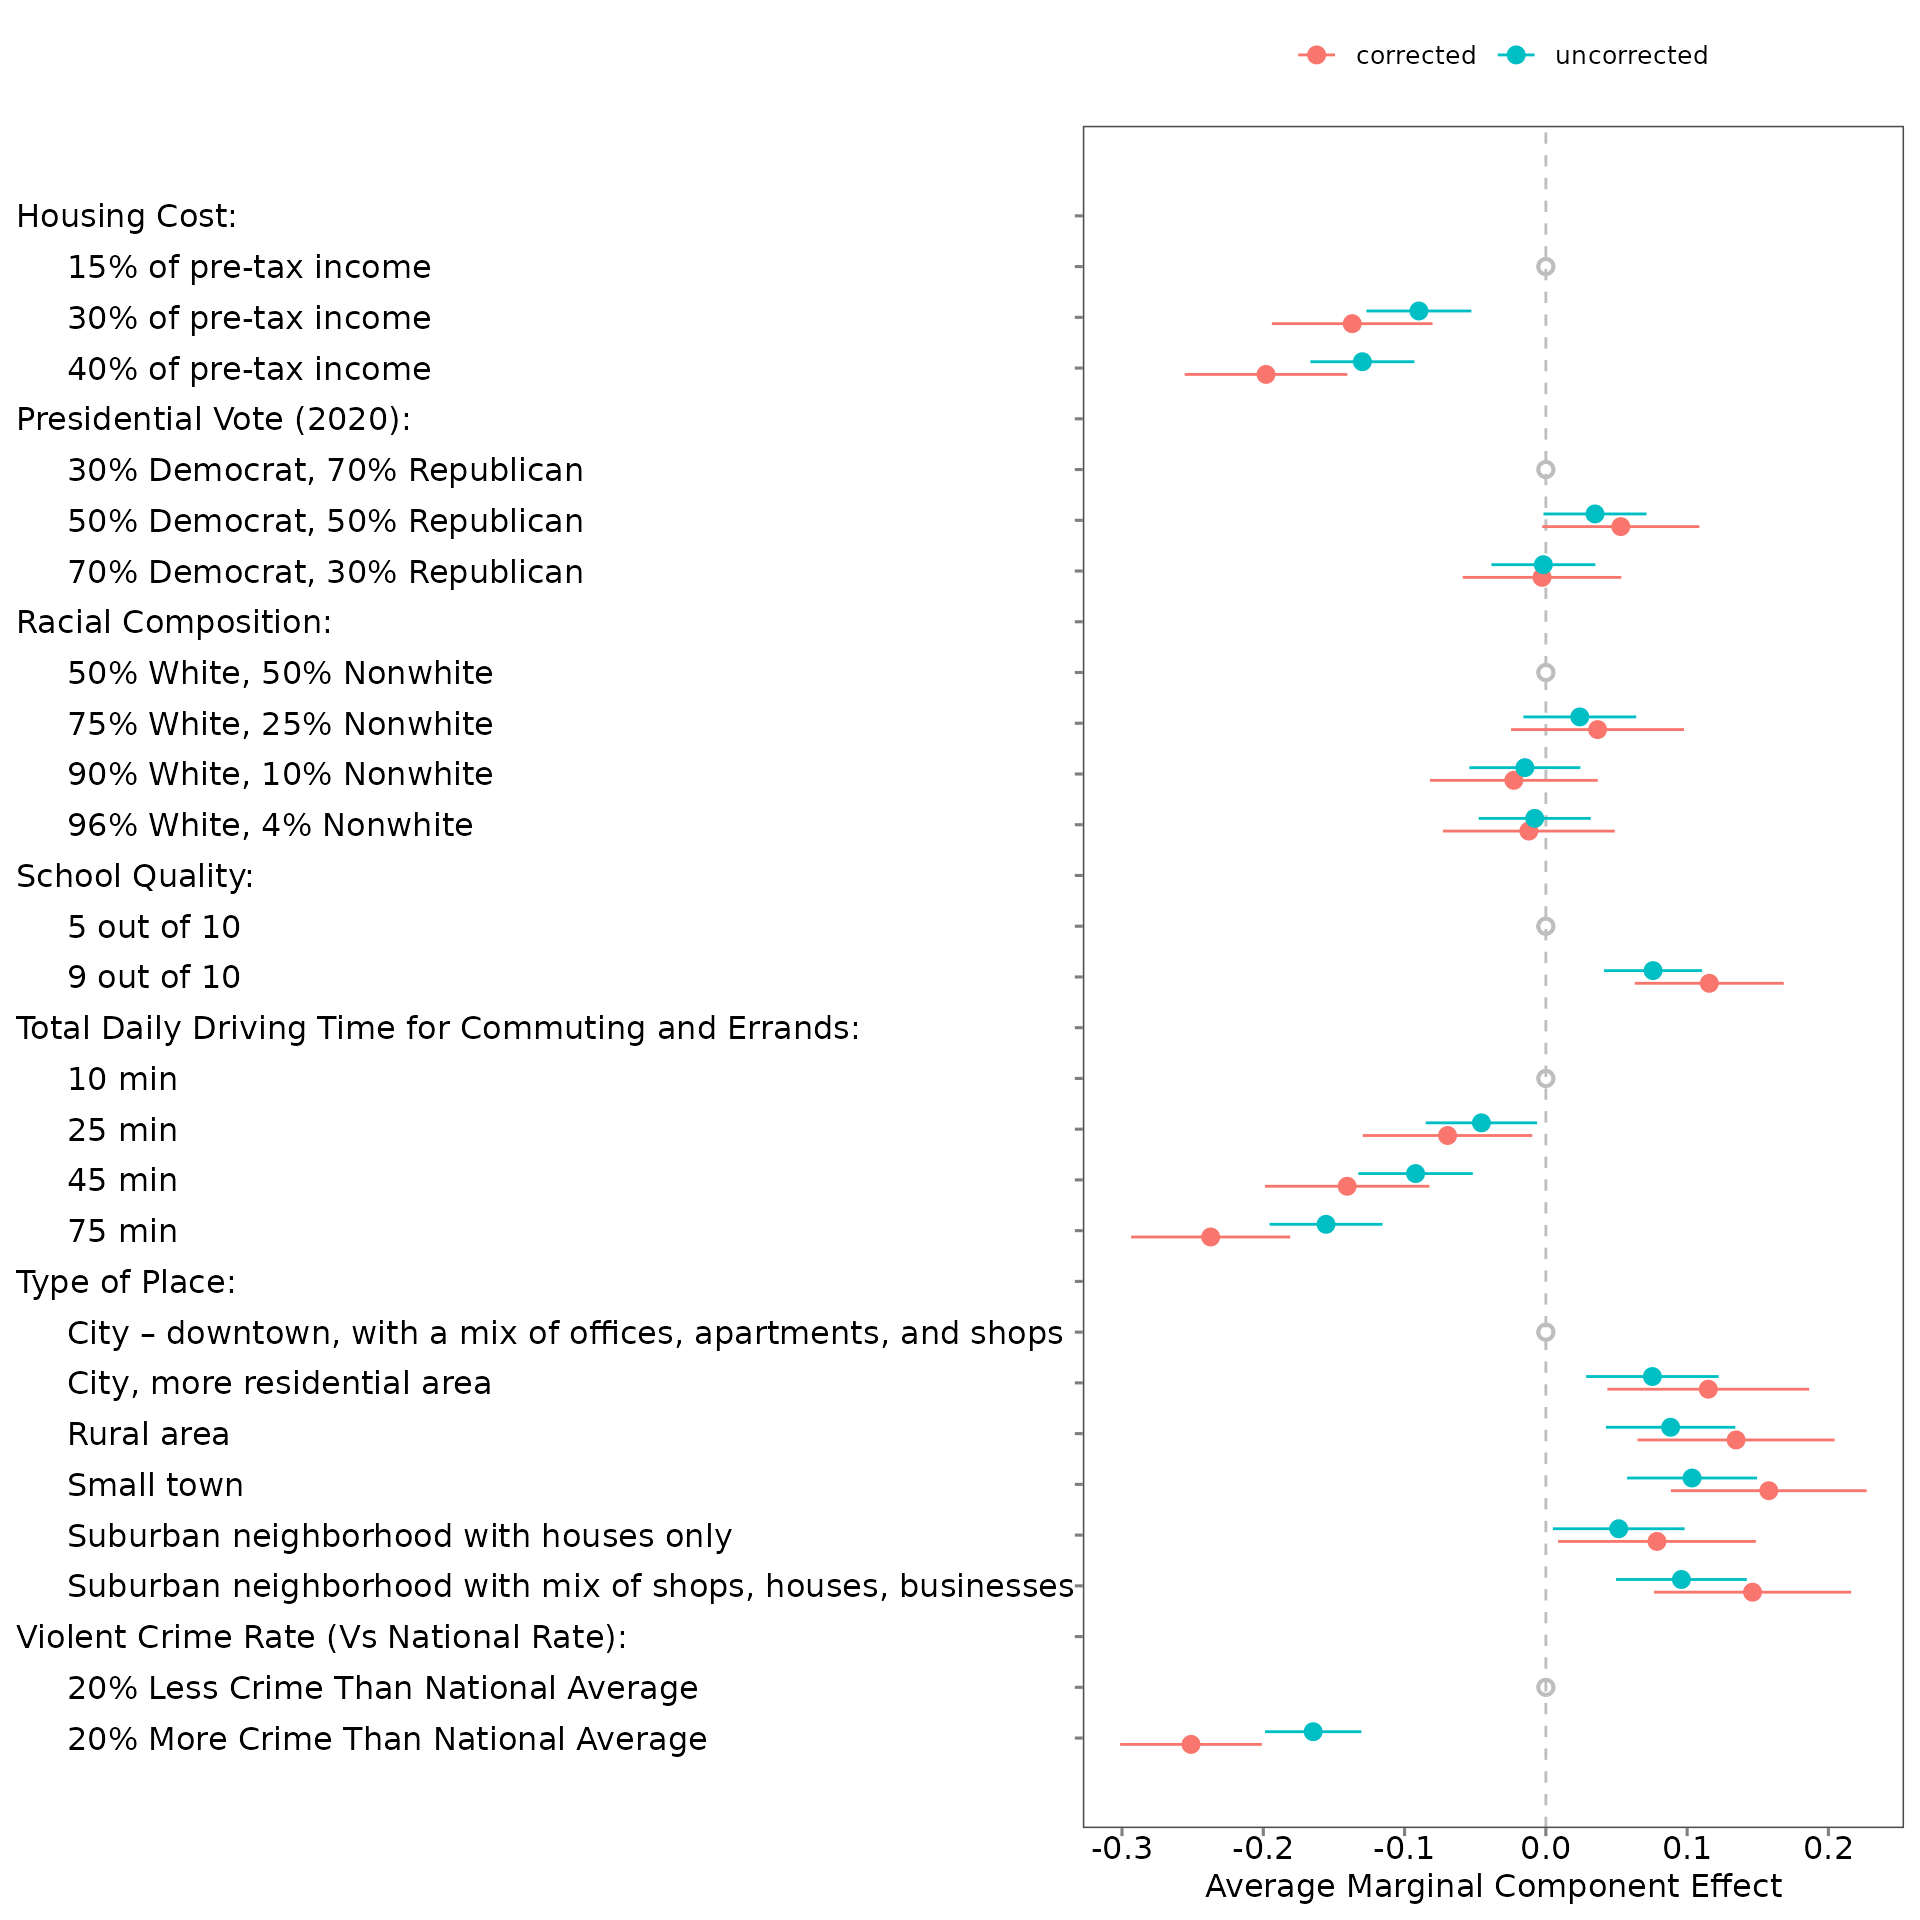
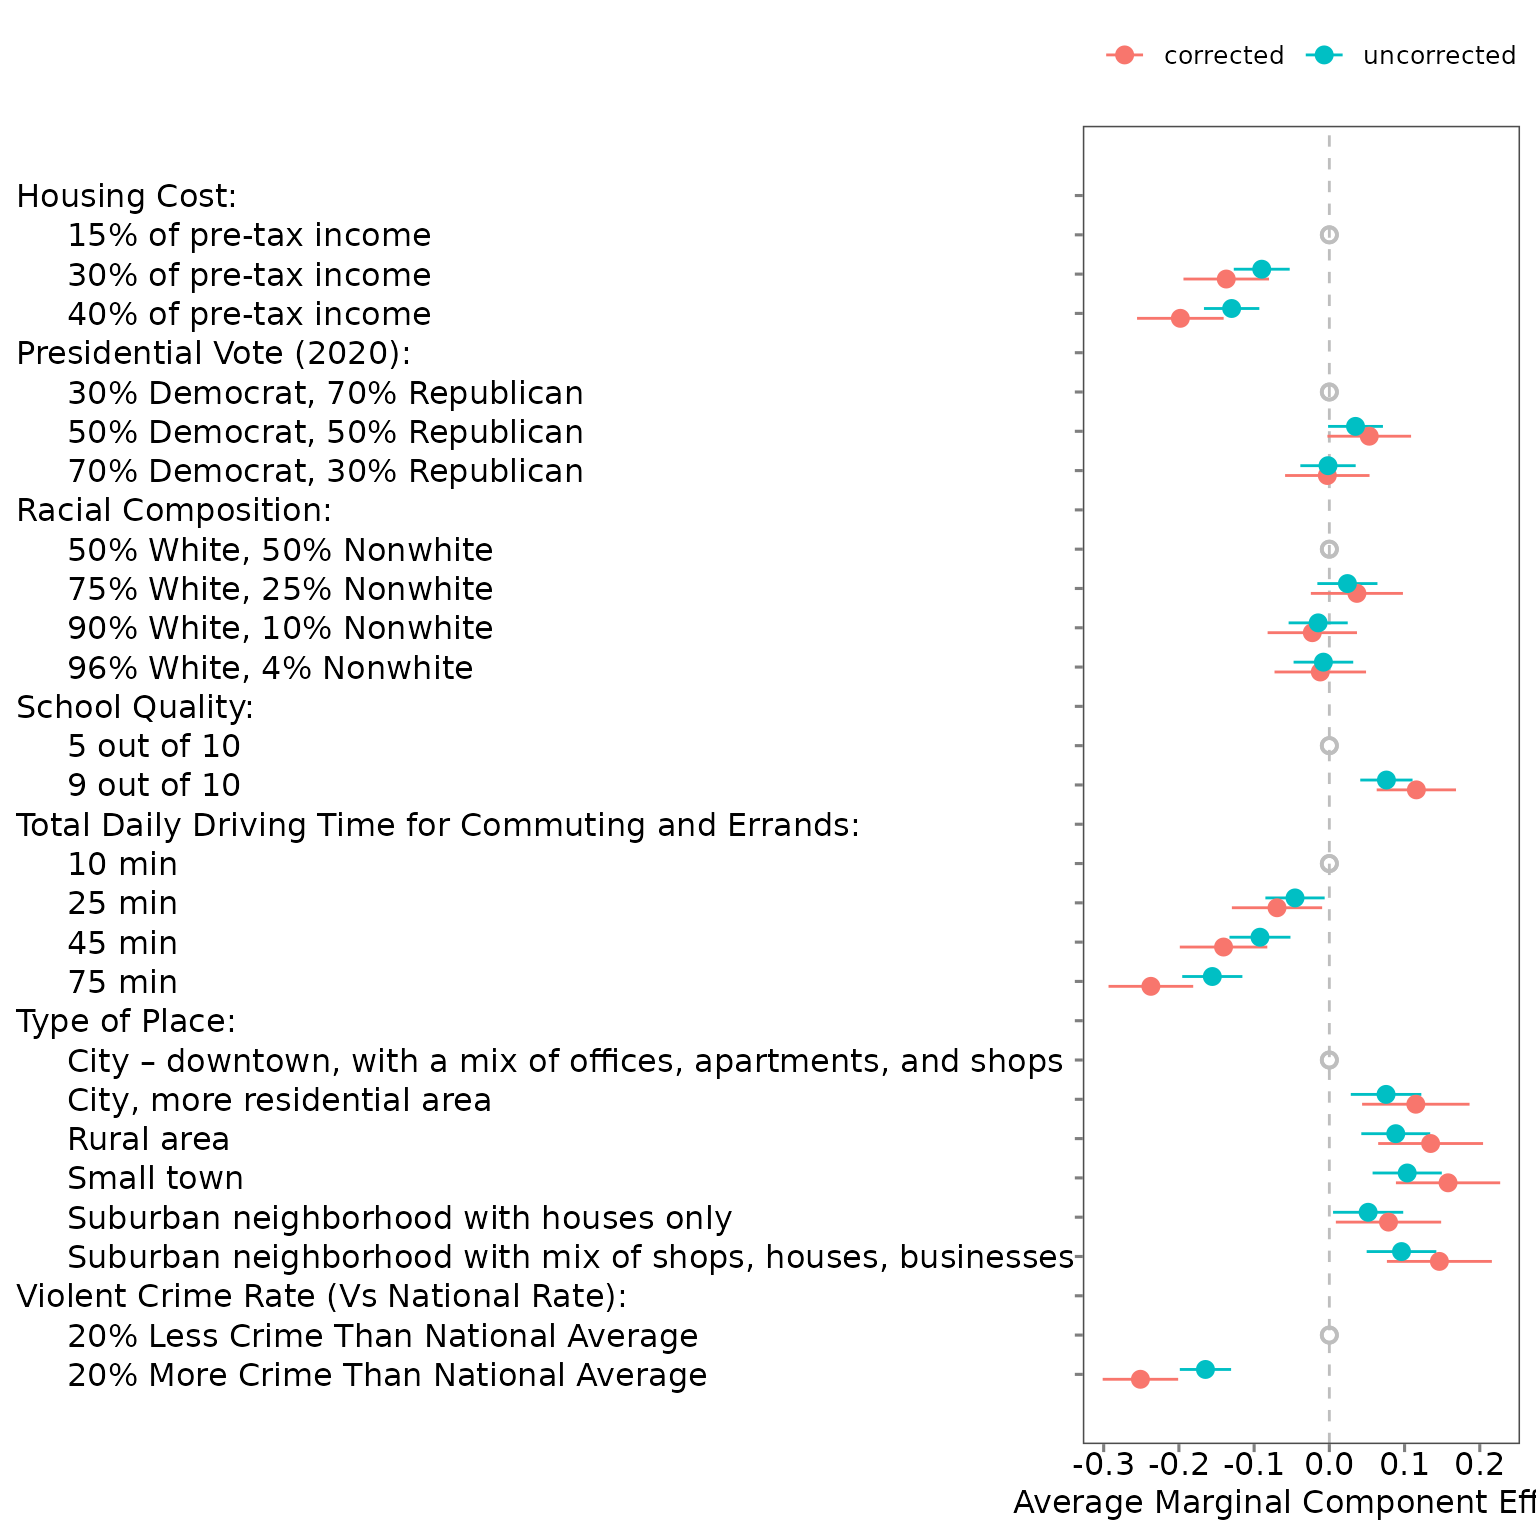
Deploying to gh-pages from @ yhoriuchi/projoint@85505f5eff318ce2e8222840f90ed776e7b75e0a 🚀

diff --git a/index.html b/index.html
@@ -74,9 +74,9 @@
 <div class="section level1">
 <h1 id="projoint">projoint<a class="anchor" aria-label="anchor" href="#projoint"></a>
 </h1>
-<div class="section level3">
-<h3 id="the-one-stop-conjoint-shop">The One-Stop Conjoint Shop<a class="anchor" aria-label="anchor" href="#the-one-stop-conjoint-shop"></a>
-</h3>
+<div class="section level2">
+<h2 id="the-one-stop-conjoint-shop">The One-Stop Conjoint Shop<a class="anchor" aria-label="anchor" href="#the-one-stop-conjoint-shop"></a>
+</h2>
 <hr>
 <p><strong>projoint</strong> is a package for more general, more straightforward, and more creative conjoint analysis. It estimates Average Marginal Component Effects (AMCEs) and Marginal Means (MMs) based on a conjoint survey experiment. It produces more reliable estimates after correcting measurement error bias and other problems known in the literature (e.g., having the same levels for the attribute of interest). Furthermore, it presents a more general framework so that researchers can answer a range of substantively important questions more straightforwardly.</p>
 <p>Some notes:</p>
@@ -84,23 +84,44 @@
 <li><p>The current version assumes that the outcome variable is a binary forced choice.</p></li>
 <li><p>This package is still under construction. We plan to make the first release by the end of July 2023.</p></li>
 </ul>
-</div>
-<div class="section level2">
-<h2 id="installation">Installation<a class="anchor" aria-label="anchor" href="#installation"></a>
-</h2>
+<div class="section level3">
+<h3 id="installation">Installation<a class="anchor" aria-label="anchor" href="#installation"></a>
+</h3>
 <p>You can install the development version of <strong>projoint</strong> from <a href="https://github.com/" class="external-link">GitHub</a> with:</p>
 <div class="sourceCode" id="cb1"><pre class="downlit sourceCode r">
 <code class="sourceCode R"><span><span class="co"># install.packages("devtools")</span></span>
 <span><span class="fu">devtools</span><span class="fu">::</span><span class="fu">install_github</span><span class="op">(</span><span class="st">"yhoriuchi/projoint"</span><span class="op">)</span></span></code></pre></div>
 </div>
-<div class="section level2">
-<h2 id="scholarly-article">Scholarly Article<a class="anchor" aria-label="anchor" href="#scholarly-article"></a>
-</h2>
-<p>For the framework and methods based on <strong>projoint</strong>, please read the following article:</p>
-<p>Katherine Clayton, Yusaku Horiuchi, Aaron R. Kaufman, Gary King, and Mayya Komisarchik. “Correcting Measurement Error Bias in Conjoint Survey Experiments”. Working Paper. [<a href="https://gking.harvard.edu/sites/scholar.harvard.edu/files/gking/files/conerr.pdf" class="external-link">Paper</a>] [<a href="https://gking.harvard.edu/sites/scholar.harvard.edu/files/gking/files/conerr-supp.pdf" class="external-link">Supplementary Appendix</a>]</p>
-<blockquote>
-<p><strong>Abstract:</strong> Conjoint survey designs are spreading across the social sciences due to their unusual capacity to estimate many causal effects from a single randomized experiment. Unfortunately, by their ability to mirror complicated real-world choices, these designs often generate substantial measurement error and thus bias. We replicate both the data collection and analysis from eight prominent conjoint studies, all of which closely reproduce published results, and show that a large proportion of observed variation in answers to conjoint questions is effectively random noise. We then discover a common empirical pattern in how measurement error appears in conjoint studies and, with it, introduce an easy-to-use statistical method to correct the bias.</p>
-</blockquote>
+<div class="section level3">
+<h3 id="relevant-articles">Relevant Articles<a class="anchor" aria-label="anchor" href="#relevant-articles"></a>
+</h3>
+<div class="section level4">
+<h4 id="methods">Methods<a class="anchor" aria-label="anchor" href="#methods"></a>
+</h4>
+<p>For our framework and methods, please read and cite the following article:</p>
+<ul>
+<li>Katherine Clayton, Yusaku Horiuchi, Aaron R. Kaufman, Gary King, and Mayya Komisarchik. “Correcting Measurement Error Bias in Conjoint Survey Experiments”. Working Paper. [<a href="https://gking.harvard.edu/sites/scholar.harvard.edu/files/gking/files/conerr.pdf" class="external-link">Paper</a>] [<a href="https://gking.harvard.edu/sites/scholar.harvard.edu/files/gking/files/conerr-supp.pdf" class="external-link">Supplementary Appendix</a>]
+<ul>
+<li>
+<strong>Abstract:</strong> Conjoint survey designs are spreading across the social sciences due to their unusual capacity to estimate many causal effects from a single randomized experiment. Unfortunately, by their ability to mirror complicated real-world choices, these designs often generate substantial measurement error and thus bias. We replicate both the data collection and analysis from eight prominent conjoint studies, all of which closely reproduce published results, and show that a large proportion of observed variation in answers to conjoint questions is effectively random noise. We then discover a common empirical pattern in how measurement error appears in conjoint studies and, with it, introduce an easy-to-use statistical method to correct the bias.</li>
+</ul>
+</li>
+</ul>
+</div>
+<div class="section level4">
+<h4 id="applications">Applications<a class="anchor" aria-label="anchor" href="#applications"></a>
+</h4>
+<p>Studies that apply our framework and methods include the following:</p>
+<ul>
+<li>John Cho, Mia Costa, and Yusaku Horiuchi. “Trade-Offs in Asian American Representation: Choosing Between Co-Ethnicity, Pan-Ethnicity, and Co-Partisanship.” Working Paper.
+<ul>
+<li>
+<strong>Abstract:</strong> How do minority voters prioritize shared race, ethnicity, and partisanship for who represents them in Congress? Asian Americans, as the fastest-growing racial group in the United States, present an important case study to analyze trade-offs between descriptive and partisan representation. In addition to considerations about partisanship, Asian Americans face trade-offs between candidates of the same national origin and of the same race. We find that when asked outright about collective presence in the legislature, Asian Americans prioritize increased descriptive representation over partisan representation. However, when choosing between candidates for dyadic representation, Asian Americans often trade off descriptive representation for the sake of shared partisanship. Voters are only willing to cross party lines for a co-ethnic representative, but not for pan-ethnics. The findings have important implications for how ethnic minority voters make decisions about political representation and contribute to understandings about a heavily understudied and heterogeneous group.</li>
+</ul>
+</li>
+</ul>
+</div>
+</div>
 </div>
 </div>
 

diff --git a/articles/05_visualize.html b/articles/05_visualize.html
@@ -113,22 +113,22 @@ instead visualize the uncorrected estimates, or to view both
 together.</p>
 <div class="sourceCode" id="cb2"><pre class="downlit sourceCode r">
 <code class="sourceCode R"><span><span class="fu"><a href="../reference/plot_projoint.html">plot_projoint</a></span><span class="op">(</span><span class="va">mm</span><span class="op">)</span></span></code></pre></div>
-<p><img src="05_visualize_files/figure-html/unnamed-chunk-2-1.png" width="960"></p>
+<p><img src="05_visualize_files/figure-html/unnamed-chunk-2-1.png" width="768"></p>
 <div class="sourceCode" id="cb3"><pre class="downlit sourceCode r">
 <code class="sourceCode R"><span><span class="fu"><a href="../reference/plot_projoint.html">plot_projoint</a></span><span class="op">(</span><span class="va">mm</span>, .estimates <span class="op">=</span> <span class="st">"uncorrected"</span><span class="op">)</span></span></code></pre></div>
-<p><img src="05_visualize_files/figure-html/unnamed-chunk-2-2.png" width="960"></p>
+<p><img src="05_visualize_files/figure-html/unnamed-chunk-2-2.png" width="768"></p>
 <div class="sourceCode" id="cb4"><pre class="downlit sourceCode r">
 <code class="sourceCode R"><span><span class="fu"><a href="../reference/plot_projoint.html">plot_projoint</a></span><span class="op">(</span><span class="va">mm</span>, .estimates <span class="op">=</span> <span class="st">"both"</span><span class="op">)</span></span></code></pre></div>
-<p><img src="05_visualize_files/figure-html/unnamed-chunk-2-3.png" width="960"></p>
+<p><img src="05_visualize_files/figure-html/unnamed-chunk-2-3.png" width="768"></p>
 <div class="sourceCode" id="cb5"><pre class="downlit sourceCode r">
 <code class="sourceCode R"><span><span class="fu"><a href="../reference/plot_projoint.html">plot_projoint</a></span><span class="op">(</span><span class="va">amce</span>, .estimand <span class="op">=</span> <span class="st">"amce"</span><span class="op">)</span></span></code></pre></div>
-<p><img src="05_visualize_files/figure-html/unnamed-chunk-3-1.png" width="960"></p>
+<p><img src="05_visualize_files/figure-html/unnamed-chunk-3-1.png" width="768"></p>
 <div class="sourceCode" id="cb6"><pre class="downlit sourceCode r">
 <code class="sourceCode R"><span><span class="fu"><a href="../reference/plot_projoint.html">plot_projoint</a></span><span class="op">(</span><span class="va">amce</span>, .estimand <span class="op">=</span> <span class="st">"amce"</span>, .estimates <span class="op">=</span> <span class="st">"uncorrected"</span><span class="op">)</span></span></code></pre></div>
-<p><img src="05_visualize_files/figure-html/unnamed-chunk-3-2.png" width="960"></p>
+<p><img src="05_visualize_files/figure-html/unnamed-chunk-3-2.png" width="768"></p>
 <div class="sourceCode" id="cb7"><pre class="downlit sourceCode r">
 <code class="sourceCode R"><span><span class="fu"><a href="../reference/plot_projoint.html">plot_projoint</a></span><span class="op">(</span><span class="va">amce</span>, .estimand <span class="op">=</span> <span class="st">"amce"</span>, .estimates <span class="op">=</span> <span class="st">"both"</span><span class="op">)</span></span></code></pre></div>
-<p><img src="05_visualize_files/figure-html/unnamed-chunk-3-3.png" width="960"></p>
+<p><img src="05_visualize_files/figure-html/unnamed-chunk-3-3.png" width="768"></p>
 </div>
 <div class="section level3">
 <h3 id="visualize-subgroup-differences">Visualize subgroup differences<a class="anchor" aria-label="anchor" href="#visualize-subgroup-differences"></a>

diff --git a/reference/exampleData1.html b/reference/exampleData1.html
@@ -73,38 +73,32 @@ of the first task, used to calculate response instability.</p>
 A data frame with 201 rows and 186 columns:</p><dl><dt>ResponseId</dt>
 <dd><p>Unique respondent ID</p></dd>
 
+  <dt>race</dt>
+<dd><p>Respondent race: 6 categories</p></dd>
+
+  <dt>party_1</dt>
+<dd><p>Respondent party: Democrat, Republican, Independent, Something else</p></dd>
+
+  <dt>party_2</dt>
+<dd><p>If party_1 is not D or R: closer to Democrats or closer to Republicans?</p></dd>
+
+  <dt>party_3</dt>
+<dd><p>If party_1 is R: strong R or not very strong R</p></dd>
+
+  <dt>party_4</dt>
+<dd><p>If party_1 is D: strong D or not very strong D</p></dd>
+
+  <dt>ideology</dt>
+<dd><p>Respondent ideology from Extremely liberal to Extremely conservative</p></dd>
+
+  <dt>honesty</dt>
+<dd><p>Attention check: respondents should select "never"</p></dd>
+
   <dt>choice1, choice2, ..., choice8</dt>
 <dd><p>Respondent selections for the initial 8 conjoint tasks</p></dd>
 
   <dt>choice1_repeated_flipped</dt>
 <dd><p>Respondent choice for the task that repeats choice1 but flipped</p></dd>
-
-  <dt>race</dt>
-<dd><p>Respondent race: 5 categories</p></dd>
-
-  <dt>party1</dt>
-<dd><p>Respondent party</p></dd>
-
-  <dt>party2</dt>
-<dd><p>If party1 is not D or R: closer to Democrats or closer to Republicans?</p></dd>
-
-  <dt>party3</dt>
-<dd><p>If party1 is R: strong R or not very strong R</p></dd>
-
-  <dt>party4</dt>
-<dd><p>If party1 is D: strong D or not very strong D</p></dd>
-
-  <dt>ideology</dt>
-<dd><p>Respondent ideology from Extremely liberal to Extremely conservative</p></dd>
-
-  <dt>hoensty</dt>
-<dd><p>Attention check: respondents should select "never"</p></dd>
-
-  <dt>K-1-1, K-1-2, ..., K-8-5</dt>
-<dd><p>K-X-Y indicates the name of the attribute that is in the Yth position in the table of the Xth task</p></dd>
-
-  <dt>K-1-1-1, K-1-1-2, ..., K-8-2-7</dt>
-<dd><p>K-X-Y-Z indicates the value of the attribute that is in the Zth position for the Yth profile (either 1 or 2 for left and right profiles) for the Xth task</p></dd>
 
 
 </dl></div>

diff --git a/reference/exampleData2.html b/reference/exampleData2.html
@@ -97,7 +97,7 @@ A data frame with 199 rows and 186 columns:</p><dl><dt>ResponseId</dt>
   <dt>ideology</dt>
 <dd><p>Respondent ideology from Extremely liberal to Extremely conservative</p></dd>
 
-  <dt>hoensty</dt>
+  <dt>honesty</dt>
 <dd><p>Attention check: respondents should select "never"</p></dd>
 
   <dt>K-1-1, K-1-2, ..., K-8-5</dt>

diff --git a/reference/exampleData3.html b/reference/exampleData3.html
@@ -91,7 +91,7 @@ A data frame with 201 rows and 185 columns:</p><dl><dt>ResponseId</dt>
   <dt>ideology</dt>
 <dd><p>Respondent ideology from Extremely liberal to Extremely conservative</p></dd>
 
-  <dt>hoensty</dt>
+  <dt>honesty</dt>
 <dd><p>Attention check: respondents should select "never"</p></dd>
 
   <dt>K-1-1, K-1-2, ..., K-8-5</dt>
